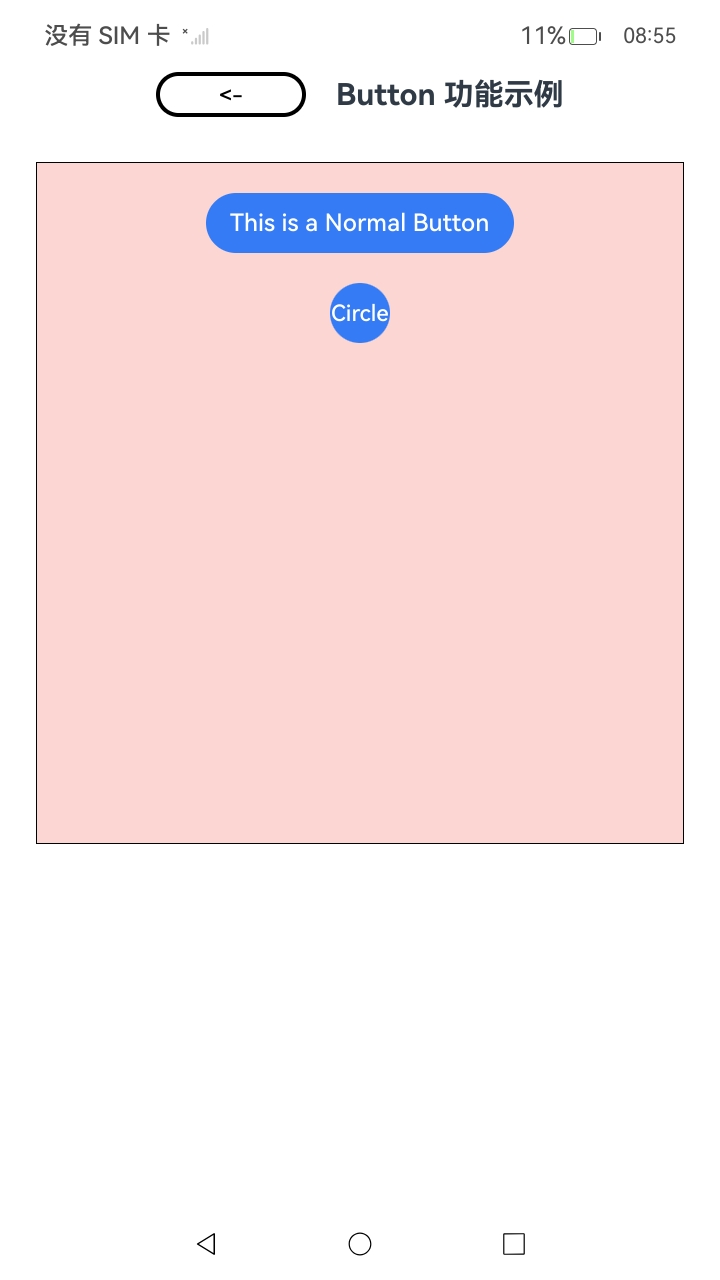
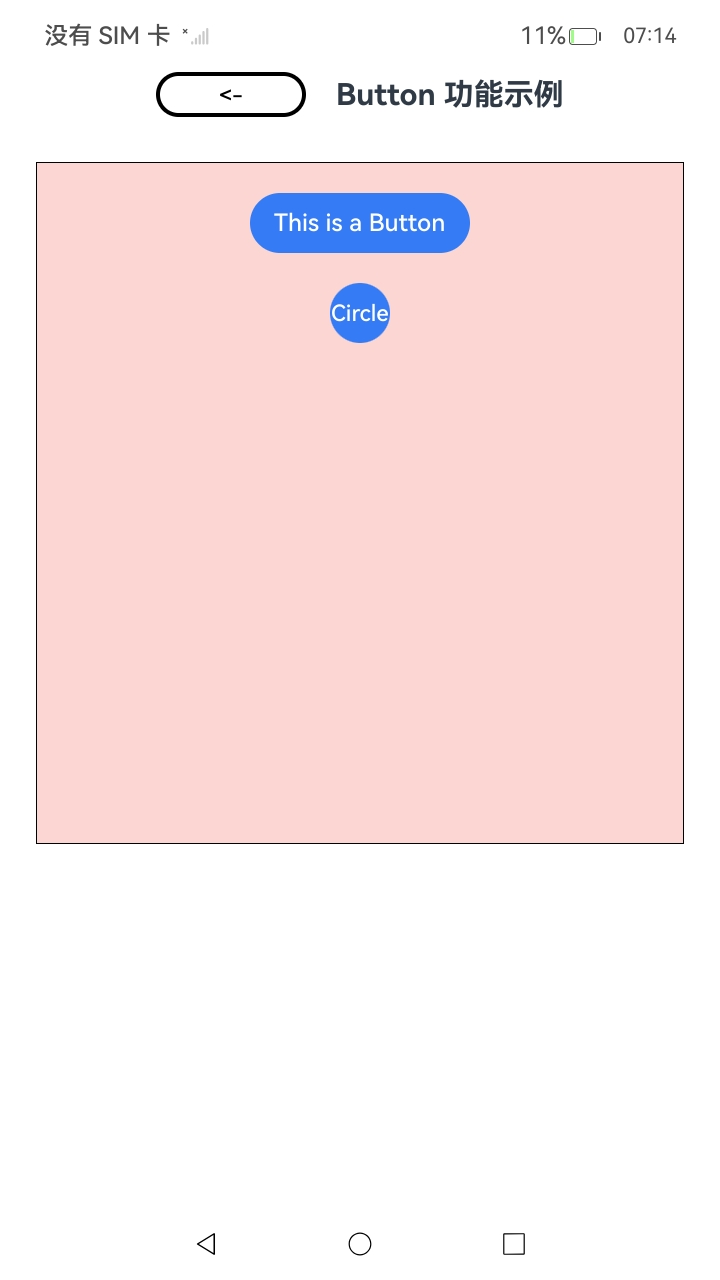
NDK表单示例代码优化 Signed-off-by: liyi0309 <[email redacted]>

Changed region(s): [[0.275, 0.125, 0.7333, 0.2188], [0.8861, 0.0, 0.9472, 0.0312]]

diff --git a/code/DocsSample/ArkUISample/NativeFormExample/entry/src/main/cpp/demo/formTest.cpp b/code/DocsSample/ArkUISample/NativeFormExample/entry/src/main/cpp/demo/formTest.cpp
@@ -65,7 +65,7 @@ std::shared_ptr<NativeModule::ArkUIBaseNode> CreateButtonExample()
     column->SetBackgroundColor(0x33ff0000);
     column->SetPadding(PARAM_20, false);
     auto button = std::make_shared<NativeModule::ArkUIButtonNode>();
-    button->SetButtonLabel("This is a Normal Button");
+    button->SetButtonLabel("This is a Button");
     button->SetMaxFontScale(1.0);
     // [Start button_type]
     auto circleBtn = std::make_shared<NativeModule::ArkUIButtonNode>();